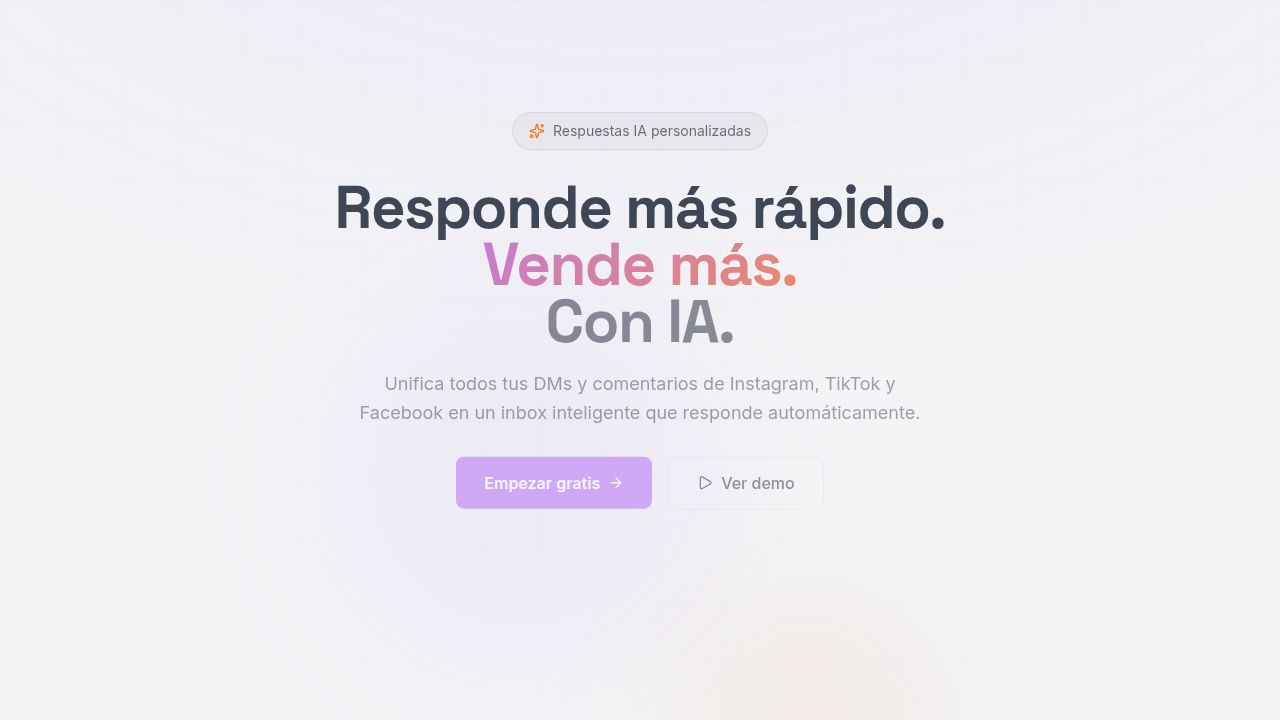
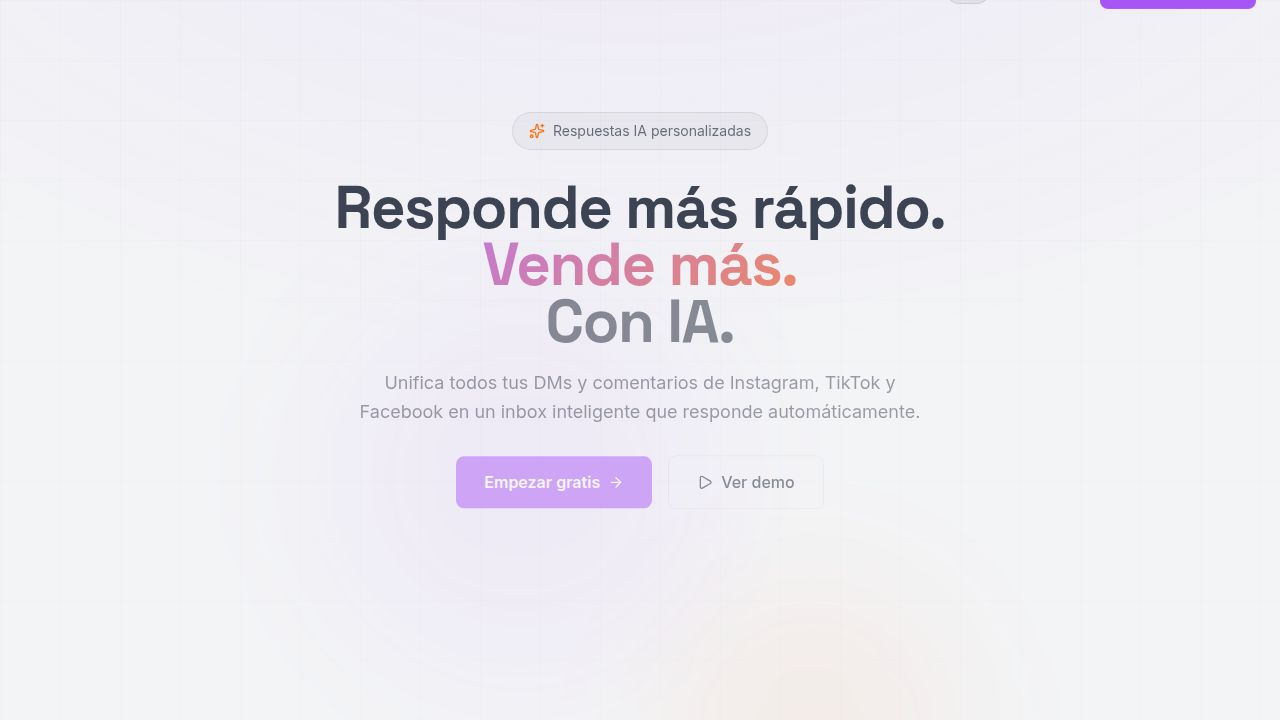
Improve UI animations and introduce a multi-agent feature
Update landing page component to use a new Users2 icon, refine animations for inbox and CRM mockups, and introduce a new multi-agent mockup with associated CSS styles.

Replit-Commit-Author: Agent
Replit-Commit-Session-Id: 4ee50687-0125-4dba-990e-e77562107b4f
Replit-Commit-Checkpoint-Type: intermediate_checkpoint
Replit-Commit-Event-Id: 45c17bf1-0b0e-430f-9381-49ba88139270
Replit-Commit-Screenshot-Url: https://storage.googleapis.com/screenshot-production-us-central1/6fbe81c6-b52e-47f2-9930-5e9300c58e42/4ee50687-0125-4dba-990e-e77562107b4f/b4jD3Nm

Changed region(s): [[0.2812, 0.5194, 0.7188, 0.5806], [0.8438, 0.0, 1.0, 0.0306]]

diff --git a/client/src/components/landing/LandingPage.tsx b/client/src/components/landing/LandingPage.tsx
@@ -1,6 +1,6 @@
 import React, { useEffect, useRef, useState, useLayoutEffect } from 'react';
-import { motion, useInView, useScroll, useTransform, useReducedMotion, useSpring, AnimatePresence } from 'framer-motion';
-import { ArrowRight, Play, Check, X, Sparkles, Inbox, Users, Bell, MessageSquare, BarChart2, Send, Zap, Clock, Heart, Sun, Moon } from 'lucide-react';
+import { motion, useInView, useScroll, useTransform, useReducedMotion, useSpring } from 'framer-motion';
+import { ArrowRight, Play, Check, X, Sparkles, Inbox, Users, Users2, Bell, MessageSquare, BarChart2, Send, Zap, Clock, Heart, Sun, Moon } from 'lucide-react';
 import { FaInstagram, FaTiktok, FaFacebook, FaYoutube, FaLinkedin } from 'react-icons/fa';
 import { GoogleBusinessIcon } from '../GoogleBusinessIcon';
 import avatarMaria from '../../assets/avatars/latina_woman_avatar_headshot.png';
@@ -284,8 +284,11 @@ function FeatureInboxMockup() {
           <motion.div
             key={idx}
             className={`inbox-item-v2 ${idx === 0 && visibleItems.includes(0) ? 'selected' : ''}`}
-            initial={{ x: 40, opacity: 0, scale: 0.9 }}
-            animate={visibleItems.includes(idx) ? { x: 0, opacity: 1, scale: 1 } : {}}
+            initial={{ opacity: 0 }}
+            animate={{ 
+              opacity: visibleItems.includes(idx) ? 1 : 0,
+              x: visibleItems.includes(idx) ? 0 : 20
+            }}
             transition={{ duration: 0.4, ease: 'easeOut' }}
           >
             <div className="inbox-avatar-wrap">
@@ -372,29 +375,25 @@ function FeatureCRMMockup() {
             </div>
           </div>
         </div>
-        <AnimatePresence>
-          {showDetails && (
-            <motion.div 
-              className="crm-mini-details"
-              initial={{ opacity: 0, height: 0 }}
-              animate={{ opacity: 1, height: 'auto' }}
-              exit={{ opacity: 0, height: 0 }}
-            >
-              <div className="crm-mini-stat">
-                <span className="crm-stat-label">Compras</span>
-                <span className="crm-stat-value">$1.2k</span>
-              </div>
-              <div className="crm-mini-stat">
-                <span className="crm-stat-label">Mensajes</span>
-                <span className="crm-stat-value">24</span>
-              </div>
-              <div className="crm-mini-tags-v2">
-                <span className="crm-tag vip">VIP</span>
-                <span className="crm-tag loyal">Leal</span>
-              </div>
-            </motion.div>
-          )}
-        </AnimatePresence>
+        <motion.div 
+          className="crm-mini-details"
+          initial={{ opacity: 0 }}
+          animate={{ opacity: showDetails ? 1 : 0 }}
+          transition={{ duration: 0.3 }}
+        >
+          <div className="crm-mini-stat">
+            <span className="crm-stat-label">Compras</span>
+            <span className="crm-stat-value">$1.2k</span>
+          </div>
+          <div className="crm-mini-stat">
+            <span className="crm-stat-label">Mensajes</span>
+            <span className="crm-stat-value">24</span>
+          </div>
+          <div className="crm-mini-tags-v2">
+            <span className="crm-tag vip">VIP</span>
+            <span className="crm-tag loyal">Leal</span>
+          </div>
+        </motion.div>
       </motion.div>
     </div>
   );
@@ -473,26 +472,30 @@ function FeatureCommentsMockup() {
       <div className="comments-thread-v2">
         {comments.map((c, idx) => (
           <div key={idx} className="comment-pair">
-            {phase >= idx * 2 + 1 && (
-              <motion.div 
-                className="comment-q"
-                initial={{ opacity: 0, x: -15 }}
-                animate={{ opacity: 1, x: 0 }}
-              >
-                <FaInstagram className="w-2.5 h-2.5 text-pink-400" />
-                <span>{c.question}</span>
-              </motion.div>
-            )}
-            {phase >= idx * 2 + 2 && (
-              <motion.div 
-                className="comment-a"
-                initial={{ opacity: 0, x: 15 }}
-                animate={{ opacity: 1, x: 0 }}
-              >
-                <Sparkles className="w-2.5 h-2.5 text-purple-400" />
-                <span>{c.answer}</span>
-              </motion.div>
-            )}
+            <motion.div 
+              className="comment-q"
+              initial={{ opacity: 0, x: -15 }}
+              animate={{ 
+                opacity: phase >= idx * 2 + 1 ? 1 : 0, 
+                x: phase >= idx * 2 + 1 ? 0 : -15 
+              }}
+              transition={{ duration: 0.3 }}
+            >
+              <FaInstagram className="w-2.5 h-2.5 text-pink-400" />
+              <span>{c.question}</span>
+            </motion.div>
+            <motion.div 
+              className="comment-a"
+              initial={{ opacity: 0, x: 15 }}
+              animate={{ 
+                opacity: phase >= idx * 2 + 2 ? 1 : 0, 
+                x: phase >= idx * 2 + 2 ? 0 : 15 
+              }}
+              transition={{ duration: 0.3 }}
+            >
+              <Sparkles className="w-2.5 h-2.5 text-purple-400" />
+              <span>{c.answer}</span>
+            </motion.div>
           </div>
         ))}
       </div>
@@ -525,6 +528,58 @@ function FeatureAnalyticsMockup() {
       <div className="analytics-labels">
         <span>L</span><span>M</span><span>X</span><span>J</span><span>V</span><span>S</span><span>D</span>
       </div>
+    </div>
+  );
+}
+
+function FeatureMultiAgentMockup() {
+  const [activeAgent, setActiveAgent] = useState(0);
+  const [cycle, setCycle] = useState(0);
+  
+  const agents = [
+    { name: 'Ana', color: 'bg-pink-500', initials: 'AN' },
+    { name: 'Luis', color: 'bg-blue-500', initials: 'LU' },
+    { name: 'Sara', color: 'bg-green-500', initials: 'SA' },
+  ];
+  
+  useEffect(() => {
+    const timers: NodeJS.Timeout[] = [];
+    
+    timers.push(setTimeout(() => setActiveAgent(0), 300));
+    timers.push(setTimeout(() => setActiveAgent(1), 1500));
+    timers.push(setTimeout(() => setActiveAgent(2), 2700));
+    timers.push(setTimeout(() => setCycle(c => c + 1), 4000));
+    
+    return () => timers.forEach(clearTimeout);
+  }, [cycle]);
+  
+  return (
+    <div className="feature-multiagent-mockup">
+      <div className="multiagent-avatars">
+        {agents.map((agent, idx) => (
+          <motion.div
+            key={idx}
+            className={`multiagent-avatar ${agent.color} ${activeAgent === idx ? 'active' : ''}`}
+            animate={{ 
+              scale: activeAgent === idx ? 1.15 : 1,
+              opacity: activeAgent === idx ? 1 : 0.5
+            }}
+            transition={{ duration: 0.3 }}
+          >
+            <span className="text-white text-xs font-bold">{agent.initials}</span>
+          </motion.div>
+        ))}
+      </div>
+      <motion.div 
+        className="multiagent-status"
+        key={activeAgent}
+        initial={{ opacity: 0, y: 5 }}
+        animate={{ opacity: 1, y: 0 }}
+        transition={{ duration: 0.3 }}
+      >
+        <span className="status-dot" />
+        <span className="status-text">{agents[activeAgent].name} respondiendo...</span>
+      </motion.div>
     </div>
   );
 }
@@ -1480,9 +1535,16 @@ function FeaturesSection() {
     { 
       icon: Inbox, 
       title: 'Inbox unificado', 
-      description: 'Todas tus conversaciones de Instagram, TikTok y Facebook en un solo lugar ordenadas por prioridad.',
-      size: 'large',
+      description: 'Todas tus conversaciones de Instagram, TikTok y Facebook en un solo lugar.',
+      size: 'medium',
       mockup: <FeatureInboxMockup />
+    },
+    { 
+      icon: Users2, 
+      title: 'Multi-agente', 
+      description: 'Varios miembros del equipo colaborando en tiempo real.',
+      size: 'medium',
+      mockup: <FeatureMultiAgentMockup />
     },
     { 
       icon: Sparkles, 
@@ -1501,21 +1563,21 @@ function FeaturesSection() {
     { 
       icon: Bell, 
       title: 'Recordatorios', 
-      description: 'Seguimiento automático para leads inactivos. Nunca pierdas una oportunidad.',
+      description: 'Seguimiento automático para leads inactivos.',
       size: 'medium',
       mockup: <FeatureReminderMockup />
     },
     { 
       icon: MessageSquare, 
       title: 'Comentarios', 
-      description: 'Gestiona comentarios de posts directamente desde el inbox.',
+      description: 'Gestiona comentarios de posts desde el inbox.',
       size: 'medium',
       mockup: <FeatureCommentsMockup />
     },
     { 
       icon: BarChart2, 
       title: 'Analytics', 
-      description: 'Métricas de rendimiento y tiempo de respuesta en tiempo real.',
+      description: 'Métricas de rendimiento y tiempo de respuesta.',
       size: 'medium',
       mockup: <FeatureAnalyticsMockup />
     },

diff --git a/client/src/styles/landing.css b/client/src/styles/landing.css
@@ -3033,6 +3033,8 @@
   display: flex;
   align-items: center;
   justify-content: center;
+  min-height: 120px;
+  overflow: hidden;
 }
 
 .feature-mini-mockup {
@@ -3170,6 +3172,7 @@
   flex: 1;
   display: flex;
   flex-direction: column;
+  min-height: 180px;
 }
 
 .inbox-list-v2 {
@@ -3288,6 +3291,7 @@
   display: flex;
   align-items: center;
   justify-content: center;
+  min-height: 130px;
 }
 
 .crm-mini-card-v2 {
@@ -3447,6 +3451,7 @@
   flex: 1;
   display: flex;
   align-items: flex-start;
+  min-height: 140px;
 }
 
 .comments-thread-v2 {
@@ -3575,4 +3580,79 @@
 
 .landing-page.theme-light .analytics-labels {
   color: var(--landing-text-muted);
+}
+
+/* Multi-agent Mockup */
+.feature-multiagent-mockup {
+  margin-top: 16px;
+  flex: 1;
+  display: flex;
+  flex-direction: column;
+  align-items: center;
+  justify-content: center;
+  gap: 16px;
+  min-height: 120px;
+}
+
+.multiagent-avatars {
+  display: flex;
+  align-items: center;
+}
+
+.multiagent-avatar {
+  width: 40px;
+  height: 40px;
+  border-radius: 50%;
+  display: flex;
+  align-items: center;
+  justify-content: center;
+  border: 2px solid var(--landing-bg-card);
+  margin-left: -8px;
+  transition: all 0.3s ease;
+}
+
+.multiagent-avatar:first-child {
+  margin-left: 0;
+}
+
+.multiagent-avatar.active {
+  box-shadow: 0 0 16px rgba(168, 85, 247, 0.5);
+  z-index: 10;
+}
+
+.multiagent-status {
+  display: flex;
+  align-items: center;
+  gap: 8px;
+  padding: 8px 14px;
+  background: rgba(255,255,255,0.05);
+  border-radius: 20px;
+  font-size: 11px;
+  color: rgba(255,255,255,0.7);
+}
+
+.multiagent-status .status-dot {
+  width: 6px;
+  height: 6px;
+  border-radius: 50%;
+  background: #22c55e;
+  animation: pulse-dot 1.5s infinite;
+}
+
+@keyframes pulse-dot {
+  0%, 100% { opacity: 1; transform: scale(1); }
+  50% { opacity: 0.5; transform: scale(0.8); }
+}
+
+.multiagent-status .status-text {
+  font-weight: 500;
+}
+
+.landing-page.theme-light .multiagent-status {
+  background: rgba(0,0,0,0.05);
+  color: var(--landing-text-muted);
+}
+
+.landing-page.theme-light .multiagent-avatar {
+  border-color: var(--landing-bg-card);
 }